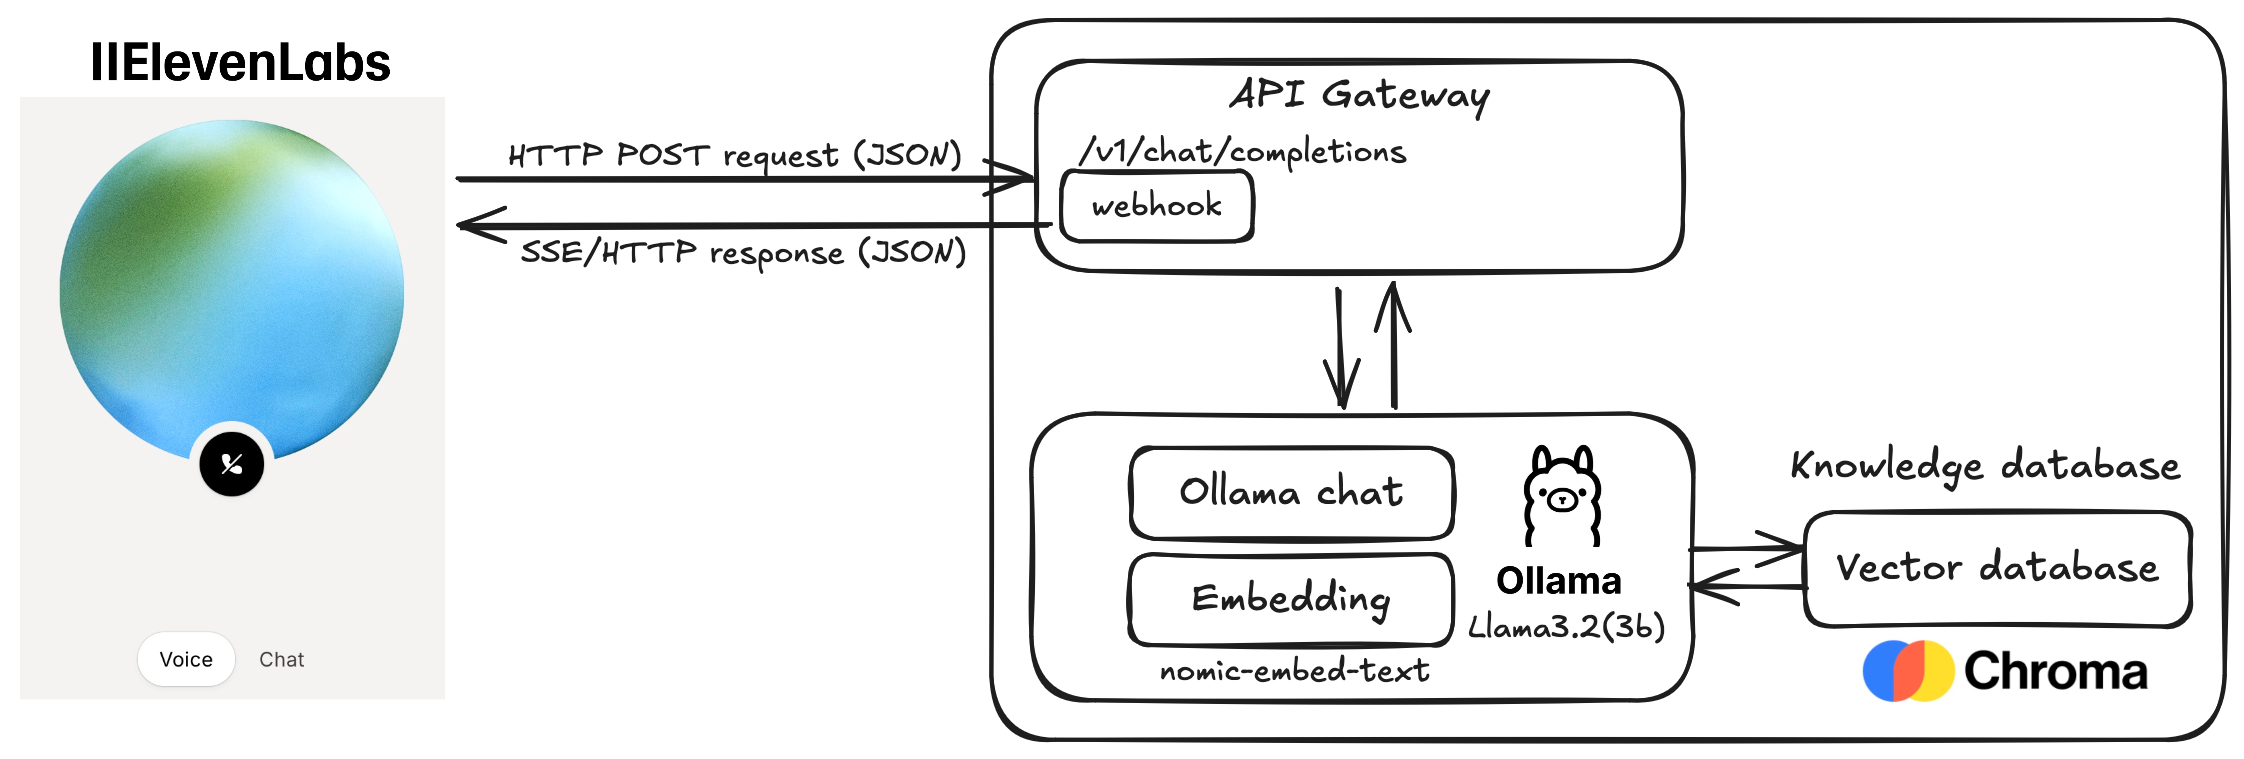
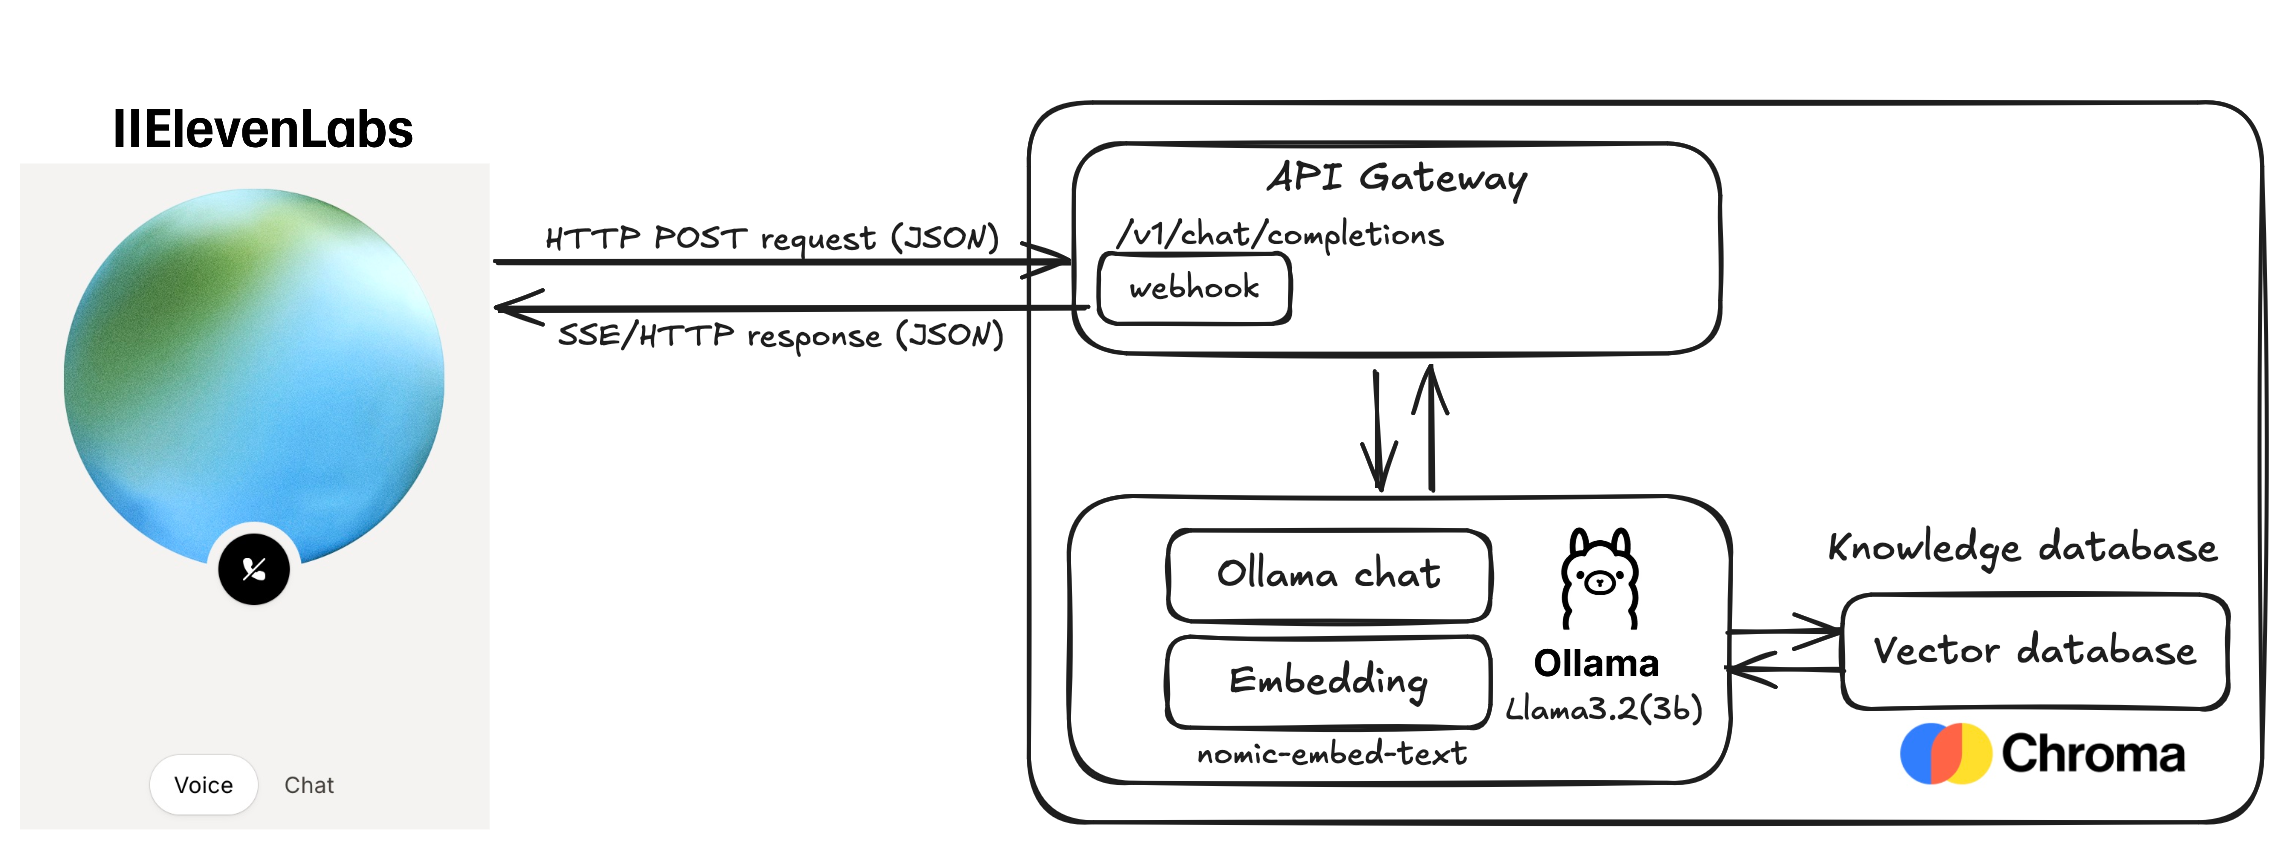
Initial commit

diff --git a/webhook-tools/README.md b/webhook-tools/README.md
@@ -20,7 +20,7 @@ When a user asks a question requiring a specific knowledge, the ElevenLabs agent
 1. **Trigger:** The user asks a question requiring use of knowledge database
 2. **Webhook execution:** ElevenLabs interrupts or supplements its core prompt by calling the configured HTTP POST webhook tool
 3. **Retrieval (RAG):** The local server embeds the query, searches the vector database, filters context, and optimizes the payload via a local LLM
-4. **Delivery:** The structured text answer is stream back (in chunks) instantly to ElevenLabs agent to be spoken to the user
+4. **Delivery:** The structured text answer is stream back in chunks to ElevenLabs agent to be spoken to the user
 
 
 ## Setup
@@ -28,7 +28,7 @@ When a user asks a question requiring a specific knowledge, the ElevenLabs agent
 ### 1. Set up local server webhook endpoint
 Your local server must expose a public-facing webhook endpoint (or use a tunneling service like Ngrok for a local development) to accept incoming POST requests from ElevenLabs agent.
 
-* **Endpoint URL:** `https://localserver.com/v1/chat/completions`
+* **Endpoint URL:** `https://localserver/v1/chat/completions`
 * **Method:** `POST`
 * **Expected Request Payload Structure (from ElevenLabs):**
   ```json
@@ -53,7 +53,7 @@ I this example we are using **/v1/chat/completions** endpoint which is the stand
 3. Fill out the tool configuration parameters:
    * **Name:** `query_local_knowledge_db`
    * **Description:** Use a highly descriptive prompt so the agent knows when to invoke it. *Example:* "Call this tool when the user asks specific, technical, or internal operational questions that require the local knowledge database context."
-   * **URL:** Your local server's public endpoint (e.g., `https://localserver.com/v1/chat/completions`).
+   * **URL:** Your local server's public endpoint (e.g., `https://localserver/v1/chat/completions`).
    * **Method:** `POST`
    * Set proper **Response timeout** (seconds)
    * Configure Authentication & Security (TBU)
